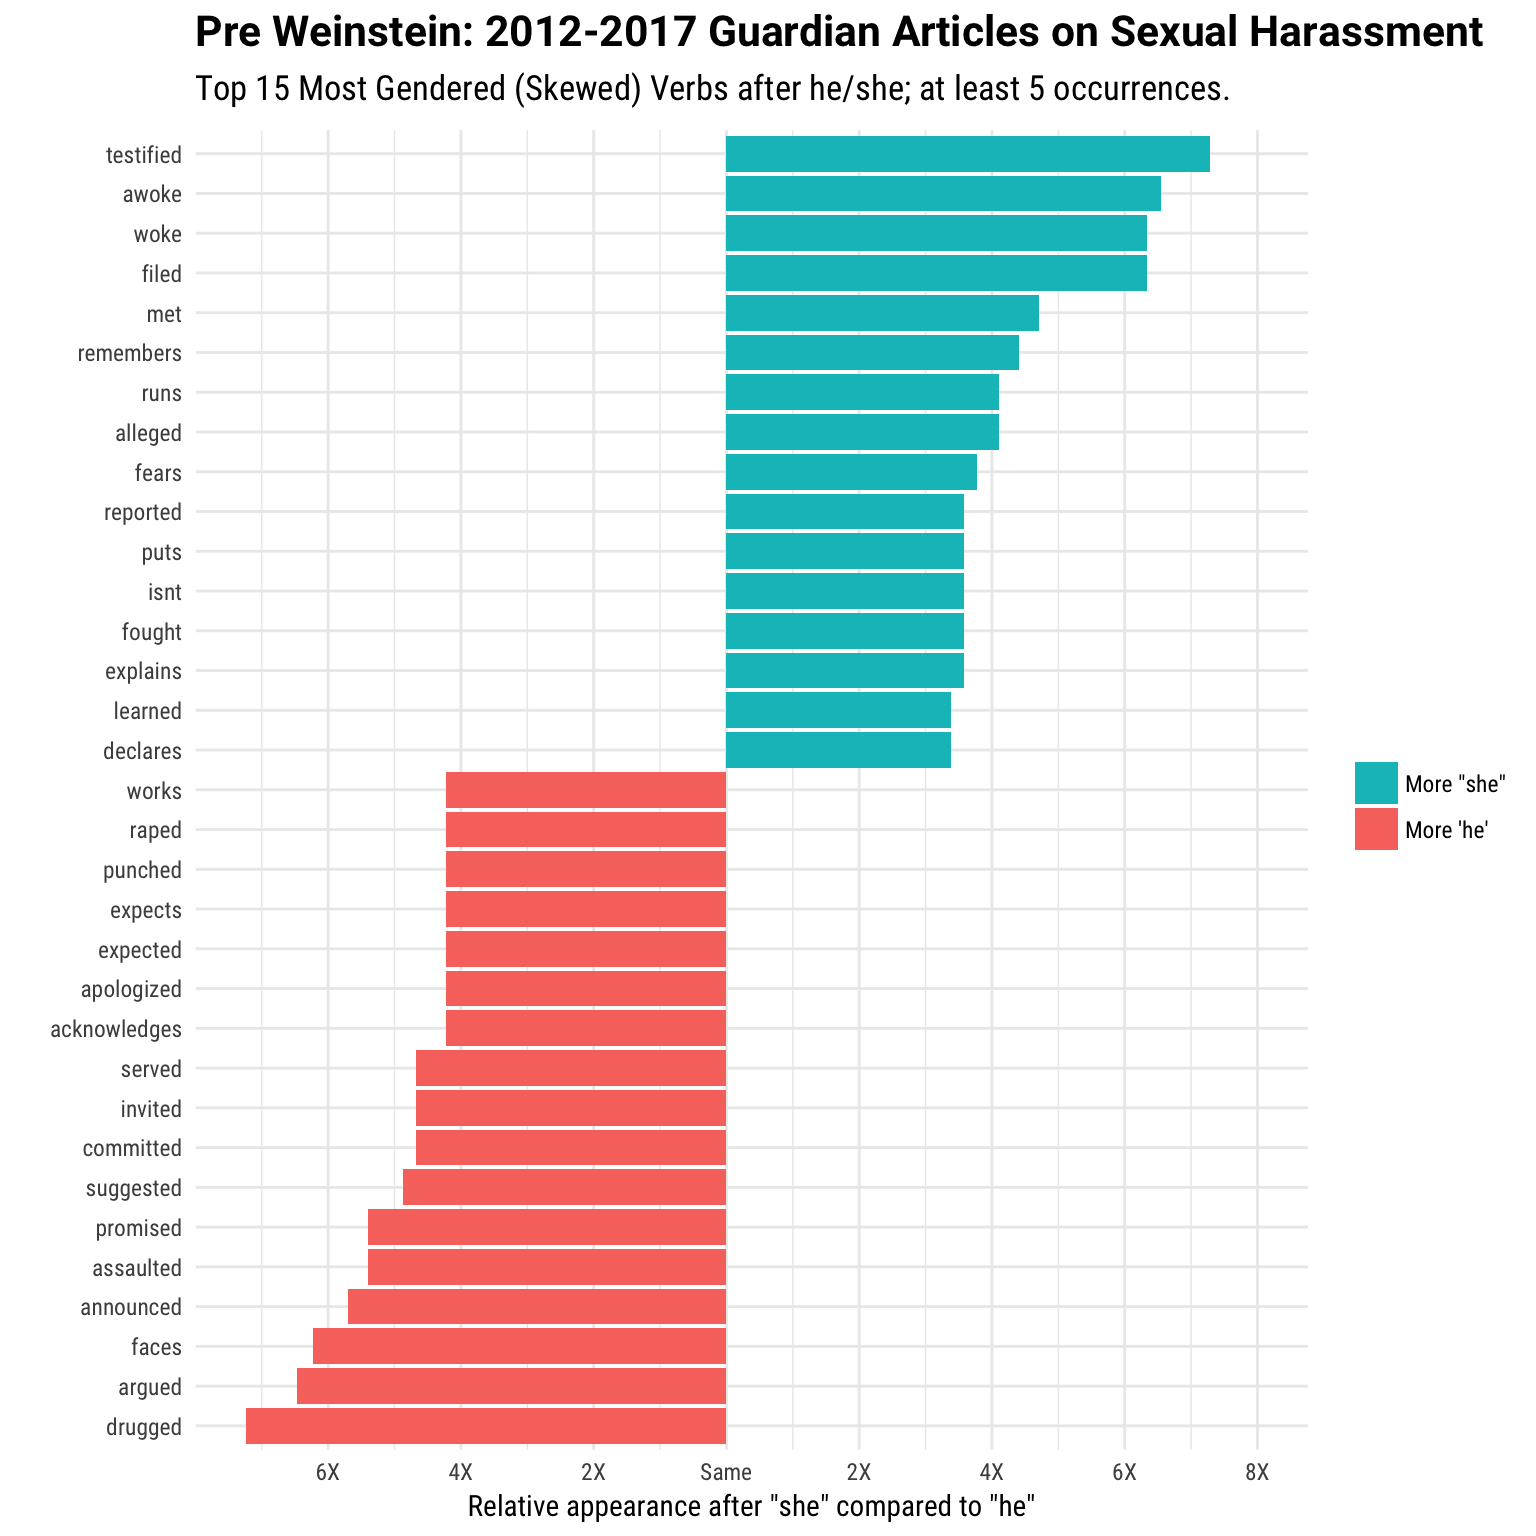
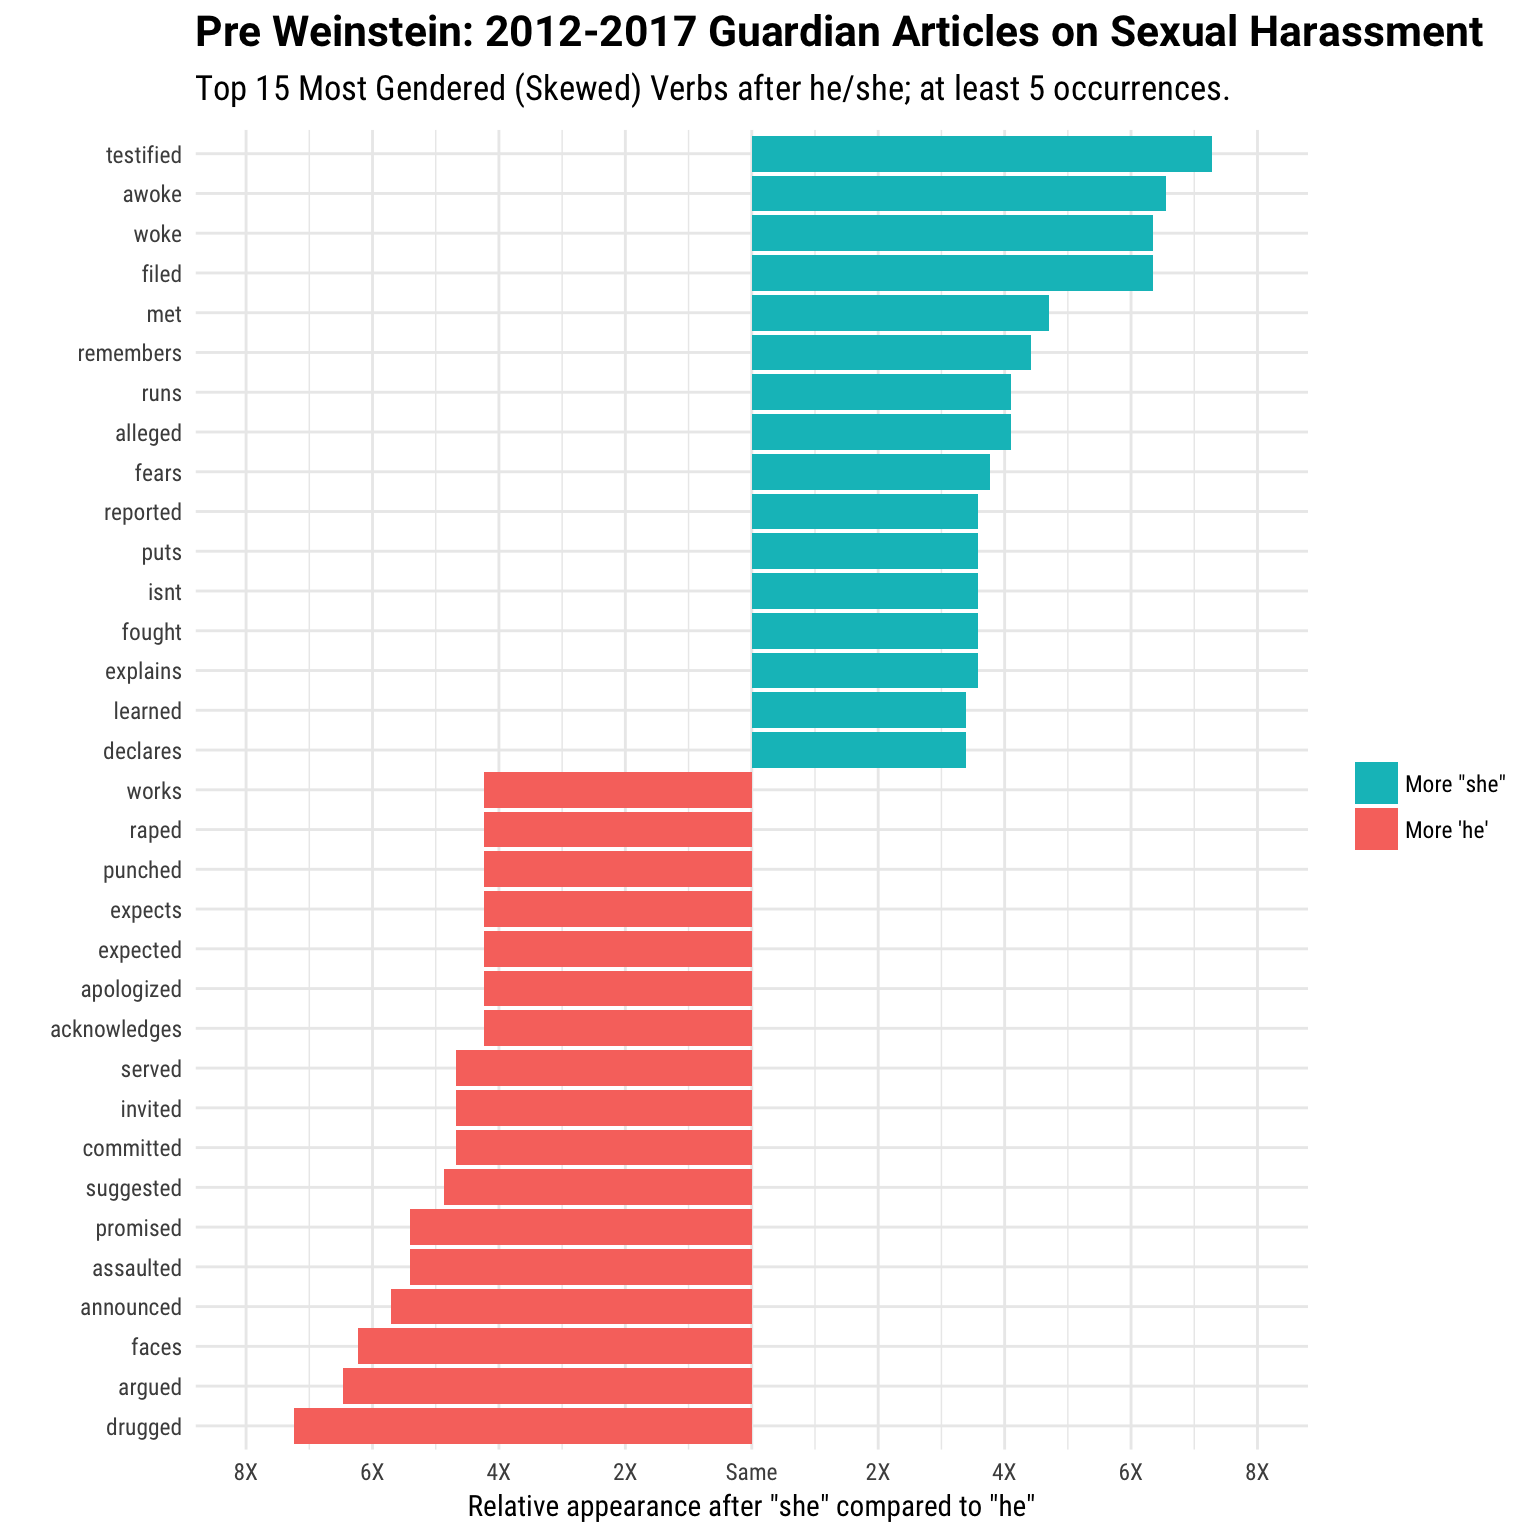
expand limits

diff --git a/content/post/2017-12-02-weinstein-effect.html b/content/post/2017-12-02-weinstein-effect.html
@@ -201,9 +201,9 @@ theme_set(theme_roboto())</code></pre>
   scale_y_continuous(labels = c(&quot;8X&quot;, &quot;6X&quot;, &quot;4X&quot;, &quot;2X&quot;, &quot;Same&quot;, &quot;2X&quot;, &quot;4X&quot;, &quot;6X&quot;, &quot;8X&quot;),
                      breaks = seq(-4, 4)) +
   guides(fill = guide_legend(reverse = TRUE)) +
-  expand_limits(y = 4)</code></pre>
+  expand_limits(y = c(-4, 4))</code></pre>
 <p><img src="/post/2017-12-02-weinstein-effect_files/figure-html/unnamed-chunk-11-1.png" width="768" /></p>
-<p>Several immediate and depressing trends emerge in the data. The top active verbs for women cluster on bringing charges: ‘testified’, ‘filed’; whereas male verbs seem to react to those with ‘argued’, ‘faces’, ‘acknowledges’, and ‘apologies’. Women ‘awoke’ and ‘woke’, matching the more violent male verbs such as ‘drugged’, ‘assaulted’, ‘punched’, and ‘raped’. ‘Alleged’ occurs more than four times after she relative to he, and there is no mention of denial (‘denied’, ‘denies’) after he.</p>
+<p>Several immediate and depressing trends emerge in the data. The top active verbs for women cluster on bringing charges: ‘testified’, ‘filed’; whereas male verbs seem to react to those with ‘argued’, ‘faces’, ‘acknowledges’, and ‘apologized’. Women ‘awoke’ and ‘woke’, matching the more violent male verbs such as ‘drugged’, ‘assaulted’, ‘punched’, and ‘raped’. ‘Alleged’ occurs more than four times after she relative to he, and there is no mention of denial (‘denied’, ‘denies’) after he.</p>
 <p>Another way of visualising the gendered differences is to plot their frequency. This time, we are not limited to just verbs; however we still filter out some uninteresting words. There are additional <code>ggplot</code> and <code>ggrepel</code> arguments in this plot. First, I added two reference lines: a red y-intercept with <code>geom_hline</code> and an invisible x-intercept using <code>geom_vline</code>. Do you not love tidy grammar? Last but not least, I insert <code>geom_text_repel</code> to give us more readability: <code>segment.alpha</code> controls the line transparency, while the <code>force</code> argument governs the aggressiveness of the jittering algorithm:</p>
 <pre class="r"><code>he.she.counts.before %&gt;%
   filter(!word2 %in% c(&quot;himself&quot;, &quot;herself&quot;, &quot;she&quot;, &quot;too&quot;, &quot;later&quot;, &quot;apos&quot;, &quot;just&quot;, &quot;says&quot;),
